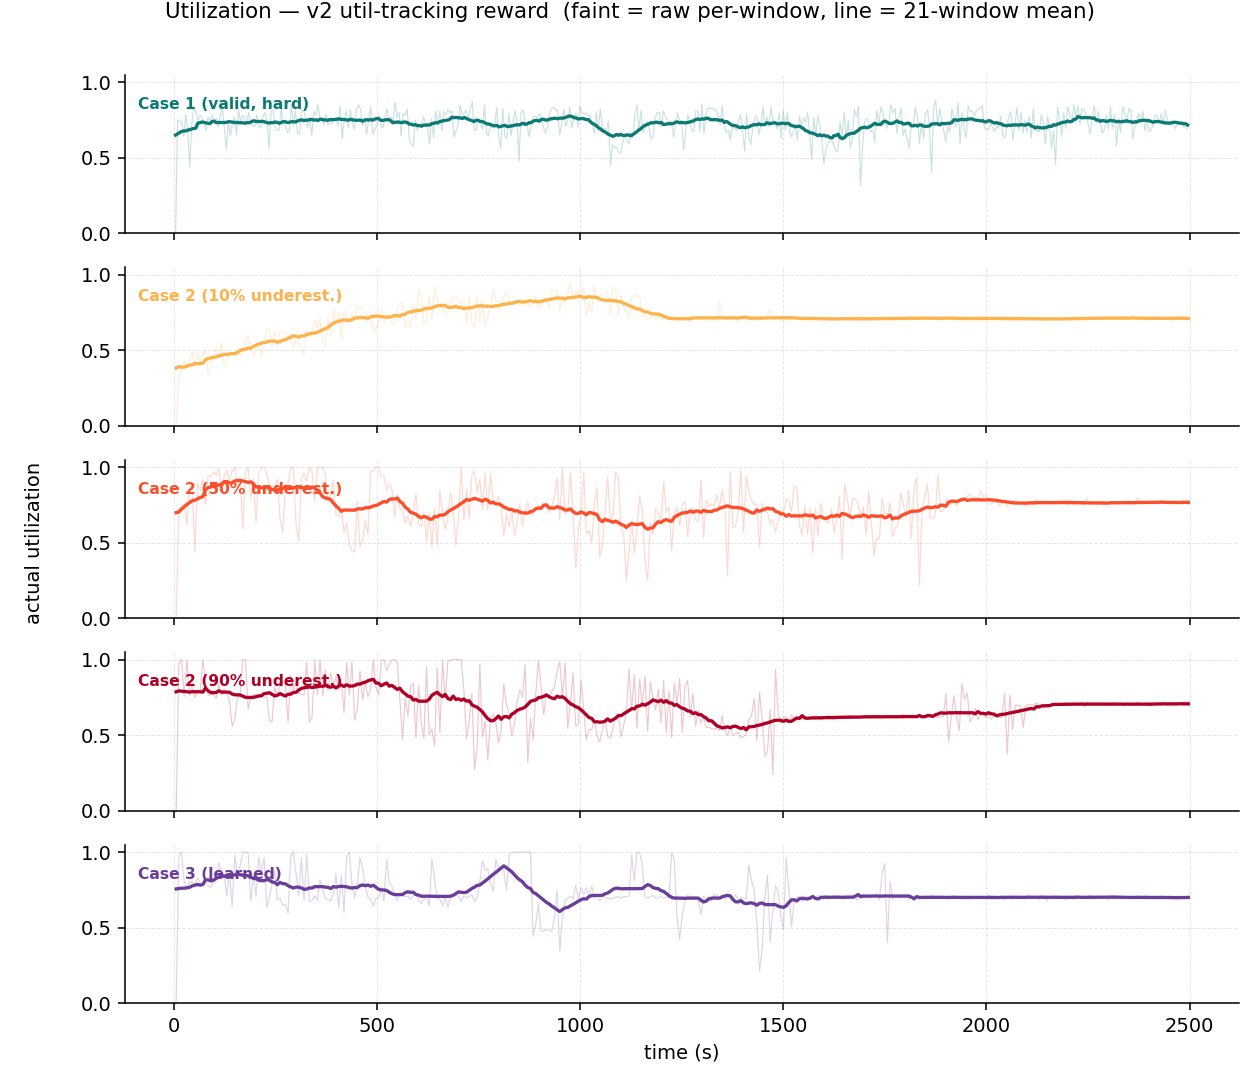
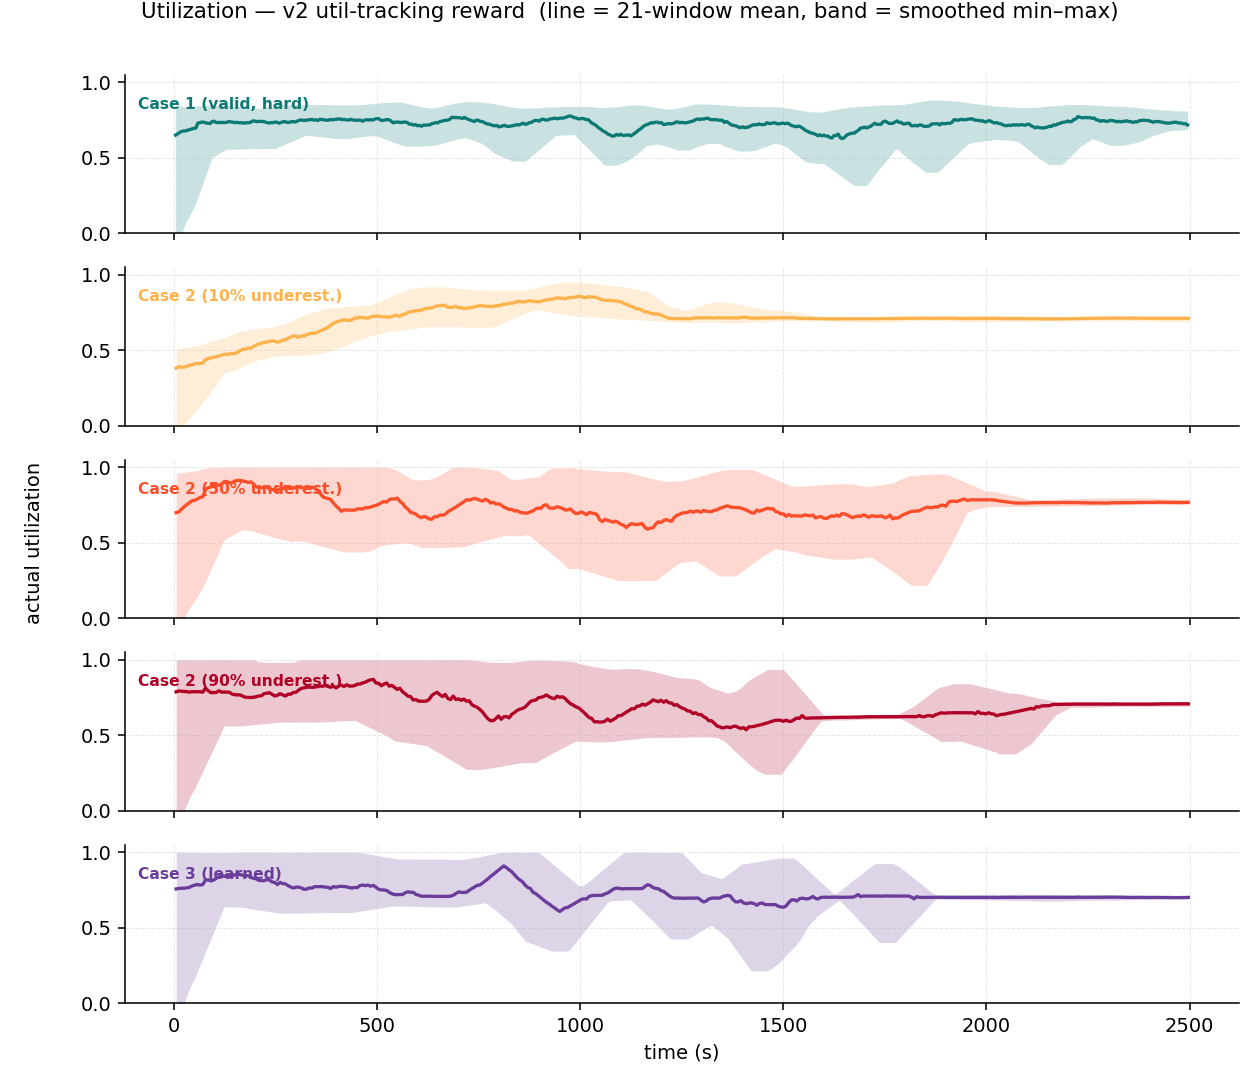
Figures: smooth shaded min-max band (smoothed envelope) + mean line
Match the shaded-confidence-band look: rolling min/max envelope smoothed with a
moving average so the band reflects the min-max range but hugs the mean smoothly,
no boxy plateaus. Regenerated paper + v2 sets.

diff --git a/scripts/fig_three_cases.py b/scripts/fig_three_cases.py
@@ -139,19 +139,19 @@ def _style(ax):
         ax.spines[sp].set_visible(False)
 
 
-def _rollband(y, w=21):
-    """Rolling (mean, mean-std, mean+std) over a centered window. The ±1σ band hugs the mean
-    smoothly — unlike a min/max band, which plateaus at extremes and reads as rectangular
-    boxes on spiky 0/1 data. Lower edge clipped at 0."""
+def _rollband(y, w=21, env_smooth=15):
+    """Rolling mean + a SMOOTH min/max envelope band. The raw rolling min/max plateaus at
+    extremes (boxy on spiky 0/1 data), so the lo/hi envelopes are themselves smoothed with a
+    moving average — the band then reflects the min/max range but hugs the mean smoothly
+    (the shaded-confidence-band look). Lower edge clipped at 0."""
     n, half = len(y), w // 2
     m, lo, hi = [], [], []
     for i in range(n):
         a, b = max(0, i - half), min(n, i + half + 1)
         seg = y[a:b]
-        mu = sum(seg) / len(seg)
-        var = sum((v - mu) ** 2 for v in seg) / len(seg)
-        sd = var ** 0.5
-        m.append(mu); lo.append(max(0.0, mu - sd)); hi.append(mu + sd)
+        m.append(sum(seg) / len(seg)); lo.append(min(seg)); hi.append(max(seg))
+    lo = [max(0.0, v) for v in _smooth(lo, env_smooth)]
+    hi = _smooth(hi, env_smooth)
     return m, lo, hi
 
 
@@ -167,8 +167,8 @@ def plot():
         fig, axes = plt.subplots(n, 1, figsize=(9, 1.55 * n), sharex=True, sharey=True)
         for ax, (tag, label, color, _) in zip(axes, specs):
             d = data[tag]
-            m, _lo, _hi = _rollband(d[key])
-            ax.plot(d["t"], d[key], color=color, alpha=0.22, lw=0.6)          # raw (true min/max)
+            m, lo, hi = _rollband(d[key])
+            ax.fill_between(d["t"], lo, hi, color=color, alpha=0.22, lw=0)    # smooth min/max band
             ax.plot(d["t"], m, color=color, lw=1.7)                           # mean line
             if hline is not None:
                 ax.axhline(hline, color="black", ls="--", lw=0.8, alpha=0.7)
@@ -181,7 +181,7 @@ def plot():
                 ax.spines[sp].set_visible(False)
         axes[-1].set_xlabel("time (s)")
         fig.supylabel(ylabel, fontsize=10)
-        fig.suptitle(f"{metric_title} — {rlabel}  (faint = raw per-window, line = 21-window mean)",
+        fig.suptitle(f"{metric_title} — {rlabel}  (line = 21-window mean, band = smoothed min–max)",
                      fontsize=11, y=0.998)
         fig.tight_layout(rect=[0.015, 0, 1, 0.99])
         p = fig_path(key)
